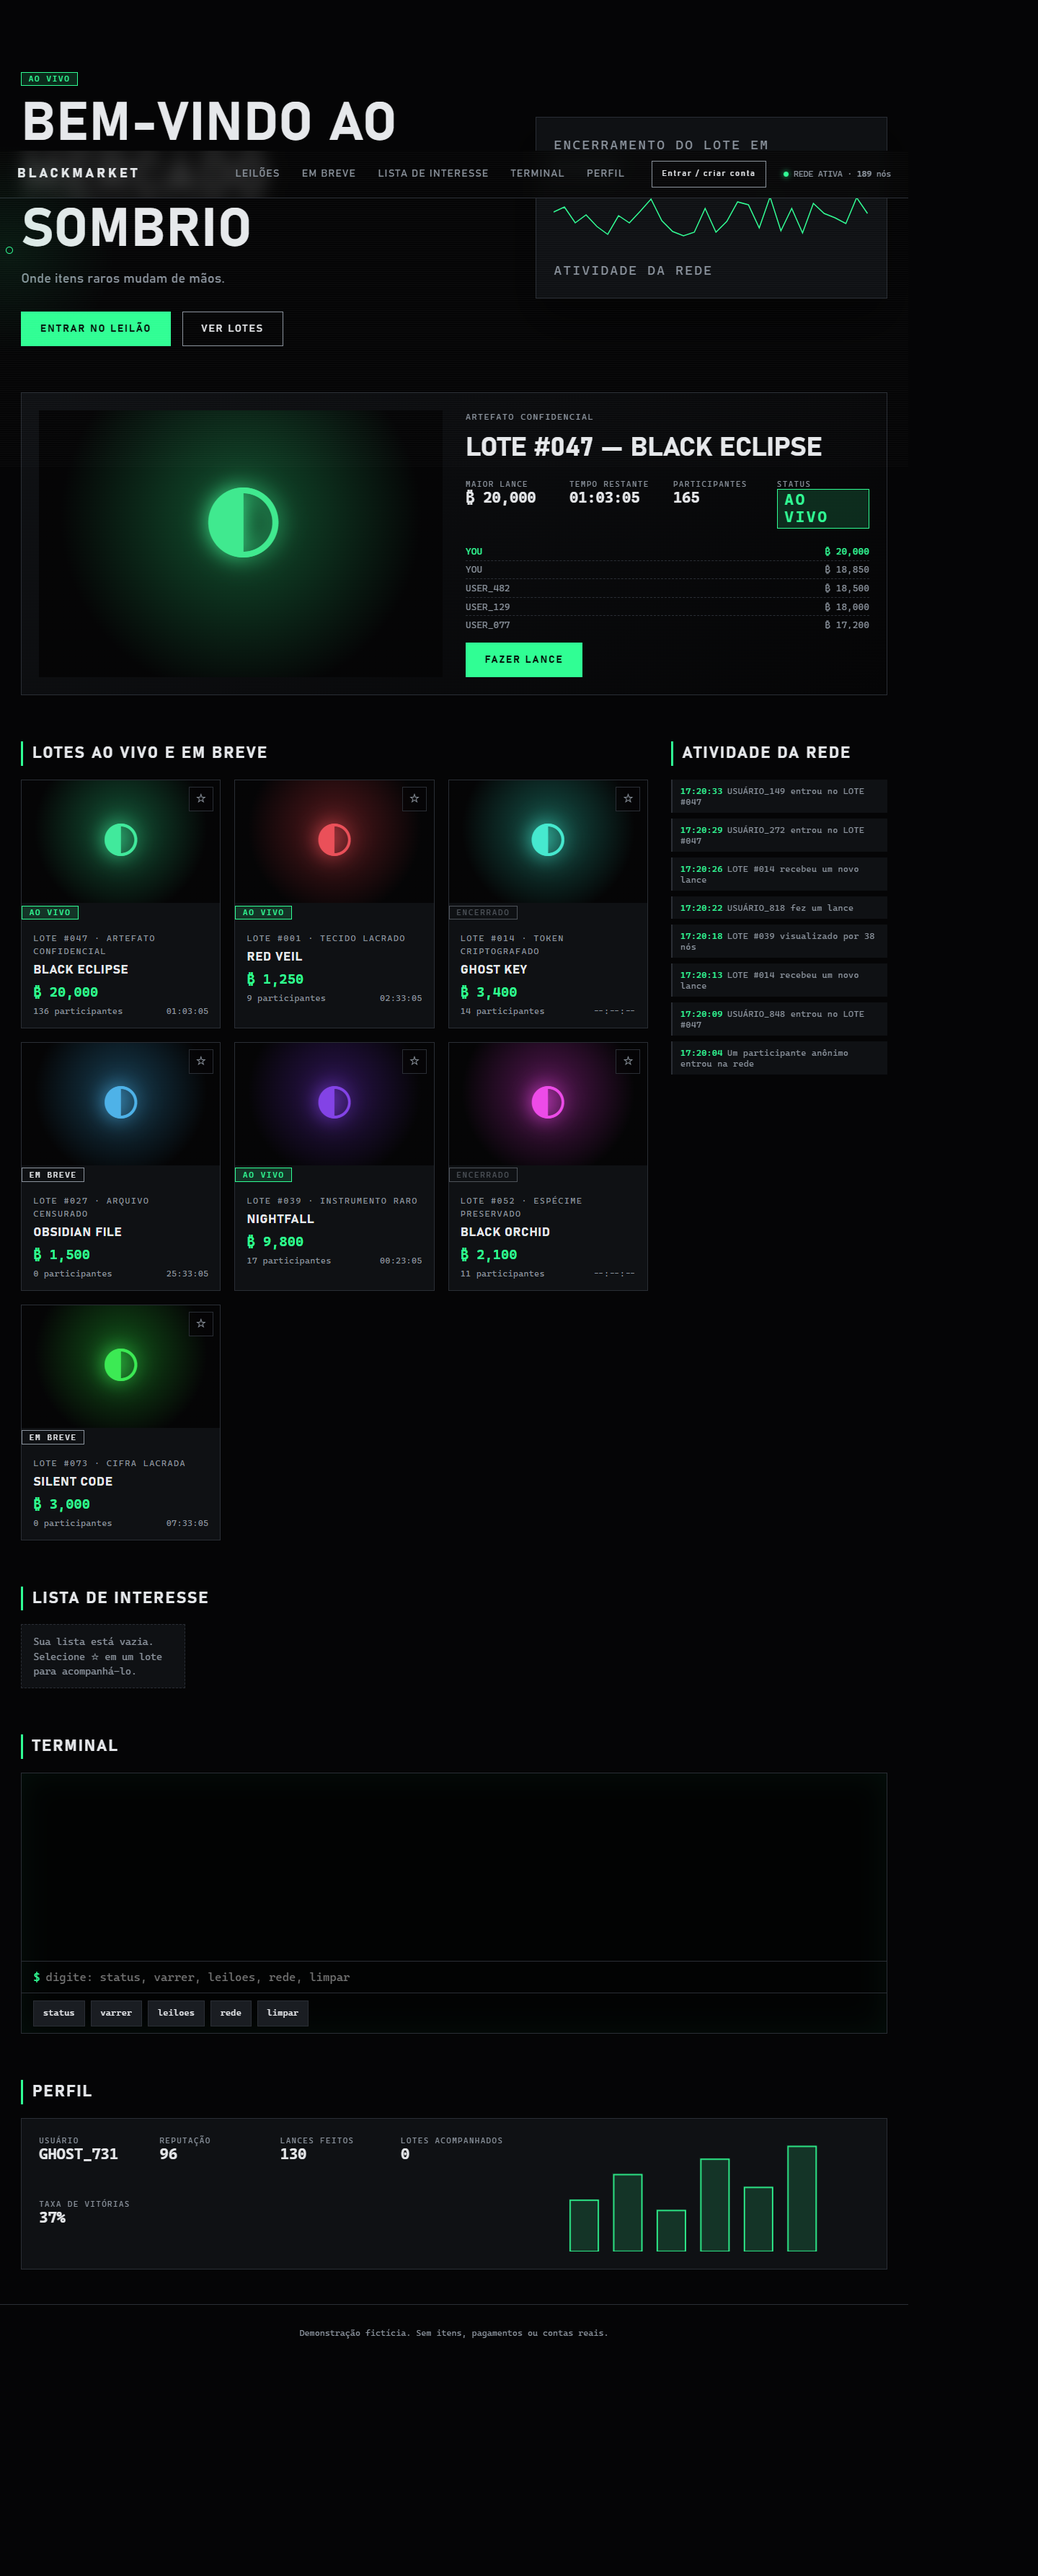
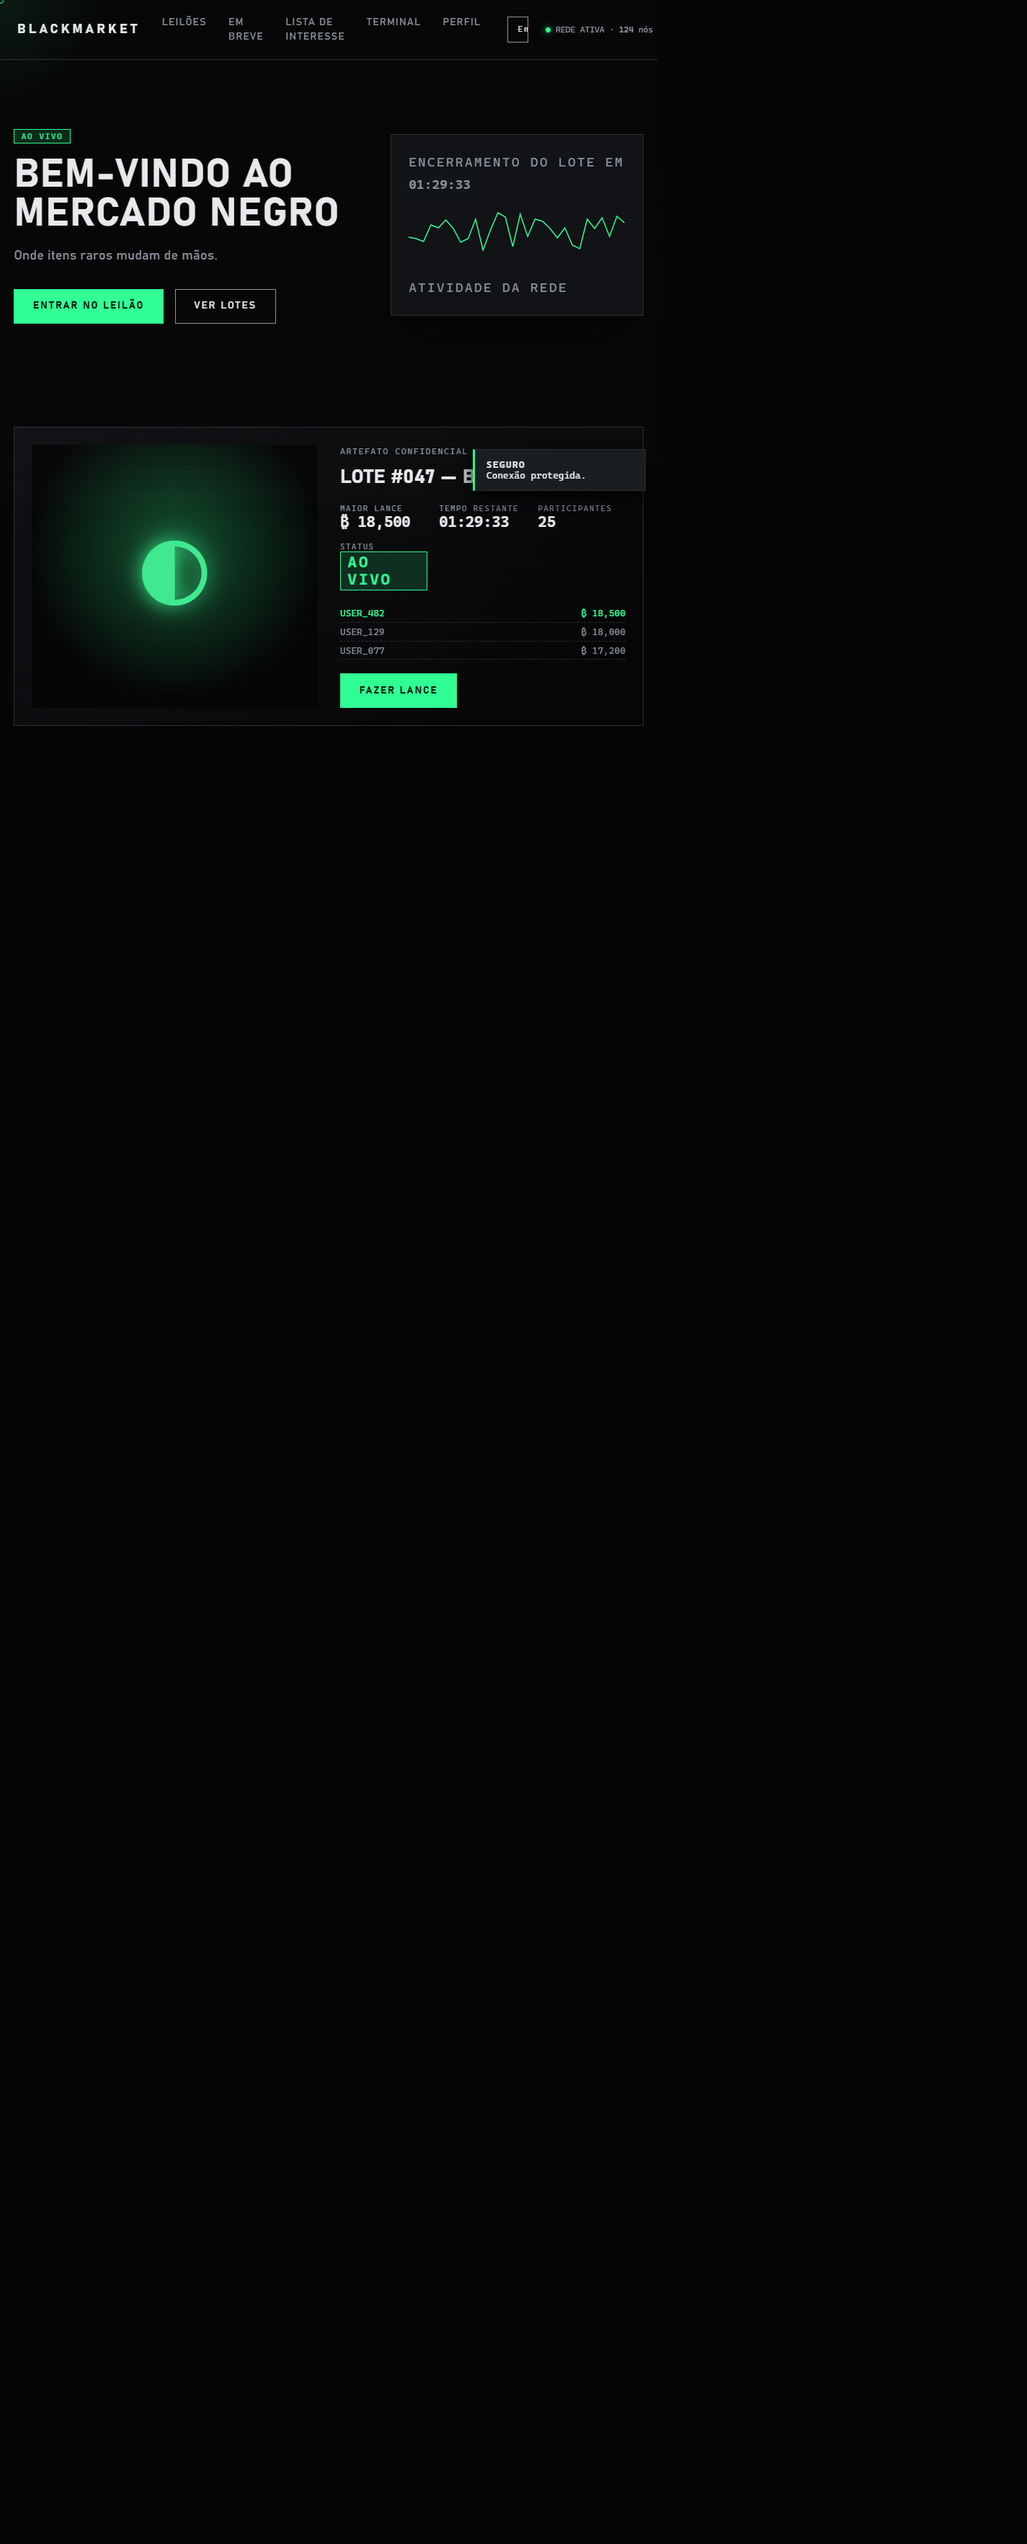
ajustes no readme

diff --git a/index.html b/index.html
@@ -41,7 +41,7 @@
       <section id="hero" class="hero reveal">
         <div class="hero-text">
           <span class="badge badge-live">AO VIVO</span>
-          <h2 class="glitch" data-text="BEM-VINDO AO MERCADO SOMBRIO">BEM-VINDO AO MERCADO NEGRO</h2>
+          <h2 class="glitch" data-text="BEM-VINDO AO MERCADO NEGRO">BEM-VINDO AO MERCADO NEGRO</h2>
           <p>Onde itens raros mudam de mãos.</p>
           <div class="hero-actions">
             <button class="btn btn-primary magnetic" data-open="47">ENTRAR NO LEILÃO</button>

diff --git a/README.md b/README.md
@@ -1,10 +1,10 @@
 <div align="center">
 
-<img src="assets/blackmarket-site.png" alt="Página principal do BLACKMARKET AUCTIONS, com leilões e atividade da rede" width="100%">
+<img src="assets/mercado-negro.png" alt="Página principal do BLACKMARKET AUCTIONS com o título Mercado Negro, leilões e atividade da rede" width="100%">
 
 # BLACKMARKET AUCTIONS
 
-### Um mercado fictício de leilões com estética de terminal e interface em português.
+### Um mercado negro fictício de leilões com estética de terminal e interface em português.
 
 <p>
 	<img src="https://img.shields.io/badge/idioma-pt--BR-3dff8f?style=flat-square" alt="Idioma: português brasileiro">
@@ -26,7 +26,7 @@ O BLACKMARKET é uma demonstração front-end de uma rede privada de leilões fi
 
 Veja lotes em andamento e futuros, acompanhe lances e abra os detalhes de cada item.
 
-![Captura da página principal do mercado, com lotes, painel de atividade e tema escuro](assets/blackmarket-site.png)
+![Captura atualizada da página Mercado Negro, com lotes, painel de atividade e tema escuro](assets/mercado-negro.png)
 
 ### Cadastro e acesso
 
